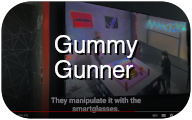
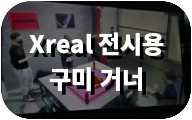
작업물 대표 이미지 수정됨

diff --git a/work-record/index.html b/work-record/index.html
@@ -43,11 +43,11 @@
 <meta property="og:url" content="https://is2you2.github.io/work-record/" />
 <meta property="og:site_name" content="최성수" />
 <meta property="og:type" content="article" />
-<meta property="article:published_time" content="2024-05-07T21:18:35+09:00" />
+<meta property="article:published_time" content="2024-06-09T20:43:08+09:00" />
 <meta name="twitter:card" content="summary" />
 <meta property="twitter:title" content="Work record" />
 <script type="application/ld+json">
-{"@context":"https://schema.org","@type":"BlogPosting","dateModified":"2024-05-07T21:18:35+09:00","datePublished":"2024-05-07T21:18:35+09:00","description":"게시할 작업물을 선별하는 중입니다.","headline":"Work record","mainEntityOfPage":{"@type":"WebPage","@id":"https://is2you2.github.io/work-record/"},"url":"https://is2you2.github.io/work-record/"}</script>
+{"@context":"https://schema.org","@type":"BlogPosting","dateModified":"2024-06-09T20:43:08+09:00","datePublished":"2024-06-09T20:43:08+09:00","description":"게시할 작업물을 선별하는 중입니다.","headline":"Work record","mainEntityOfPage":{"@type":"WebPage","@id":"https://is2you2.github.io/work-record/"},"url":"https://is2you2.github.io/work-record/"}</script>
 <!-- End Jekyll SEO tag -->
 
   

diff --git a/categories/index.html b/categories/index.html
@@ -43,11 +43,11 @@
 <meta property="og:url" content="https://is2you2.github.io/categories/" />
 <meta property="og:site_name" content="최성수" />
 <meta property="og:type" content="article" />
-<meta property="article:published_time" content="2024-05-07T21:18:35+09:00" />
+<meta property="article:published_time" content="2024-06-09T20:43:08+09:00" />
 <meta name="twitter:card" content="summary" />
 <meta property="twitter:title" content="Categories" />
 <script type="application/ld+json">
-{"@context":"https://schema.org","@type":"BlogPosting","dateModified":"2024-05-07T21:18:35+09:00","datePublished":"2024-05-07T21:18:35+09:00","description":"오픈소스에 기대어 이것 저것 해봅니다","headline":"Categories","mainEntityOfPage":{"@type":"WebPage","@id":"https://is2you2.github.io/categories/"},"url":"https://is2you2.github.io/categories/"}</script>
+{"@context":"https://schema.org","@type":"BlogPosting","dateModified":"2024-06-09T20:43:08+09:00","datePublished":"2024-06-09T20:43:08+09:00","description":"오픈소스에 기대어 이것 저것 해봅니다","headline":"Categories","mainEntityOfPage":{"@type":"WebPage","@id":"https://is2you2.github.io/categories/"},"url":"https://is2you2.github.io/categories/"}</script>
 <!-- End Jekyll SEO tag -->
 
   

diff --git a/tags/index.html b/tags/index.html
@@ -43,11 +43,11 @@
 <meta property="og:url" content="https://is2you2.github.io/tags/" />
 <meta property="og:site_name" content="최성수" />
 <meta property="og:type" content="article" />
-<meta property="article:published_time" content="2024-05-07T21:18:35+09:00" />
+<meta property="article:published_time" content="2024-06-09T20:43:08+09:00" />
 <meta name="twitter:card" content="summary" />
 <meta property="twitter:title" content="Tags" />
 <script type="application/ld+json">
-{"@context":"https://schema.org","@type":"BlogPosting","dateModified":"2024-05-07T21:18:35+09:00","datePublished":"2024-05-07T21:18:35+09:00","description":"오픈소스에 기대어 이것 저것 해봅니다","headline":"Tags","mainEntityOfPage":{"@type":"WebPage","@id":"https://is2you2.github.io/tags/"},"url":"https://is2you2.github.io/tags/"}</script>
+{"@context":"https://schema.org","@type":"BlogPosting","dateModified":"2024-06-09T20:43:08+09:00","datePublished":"2024-06-09T20:43:08+09:00","description":"오픈소스에 기대어 이것 저것 해봅니다","headline":"Tags","mainEntityOfPage":{"@type":"WebPage","@id":"https://is2you2.github.io/tags/"},"url":"https://is2you2.github.io/tags/"}</script>
 <!-- End Jekyll SEO tag -->
 
   

diff --git a/sw.js b/sw.js
@@ -1,6 +1,6 @@
 self.importScripts('/assets/js/data/swcache.js');
 
-const cacheName = 'chirpy-1715084317';
+const cacheName = 'chirpy-1717933389';
 
 function verifyDomain(url) {
   for (const domain of allowedDomains) {
